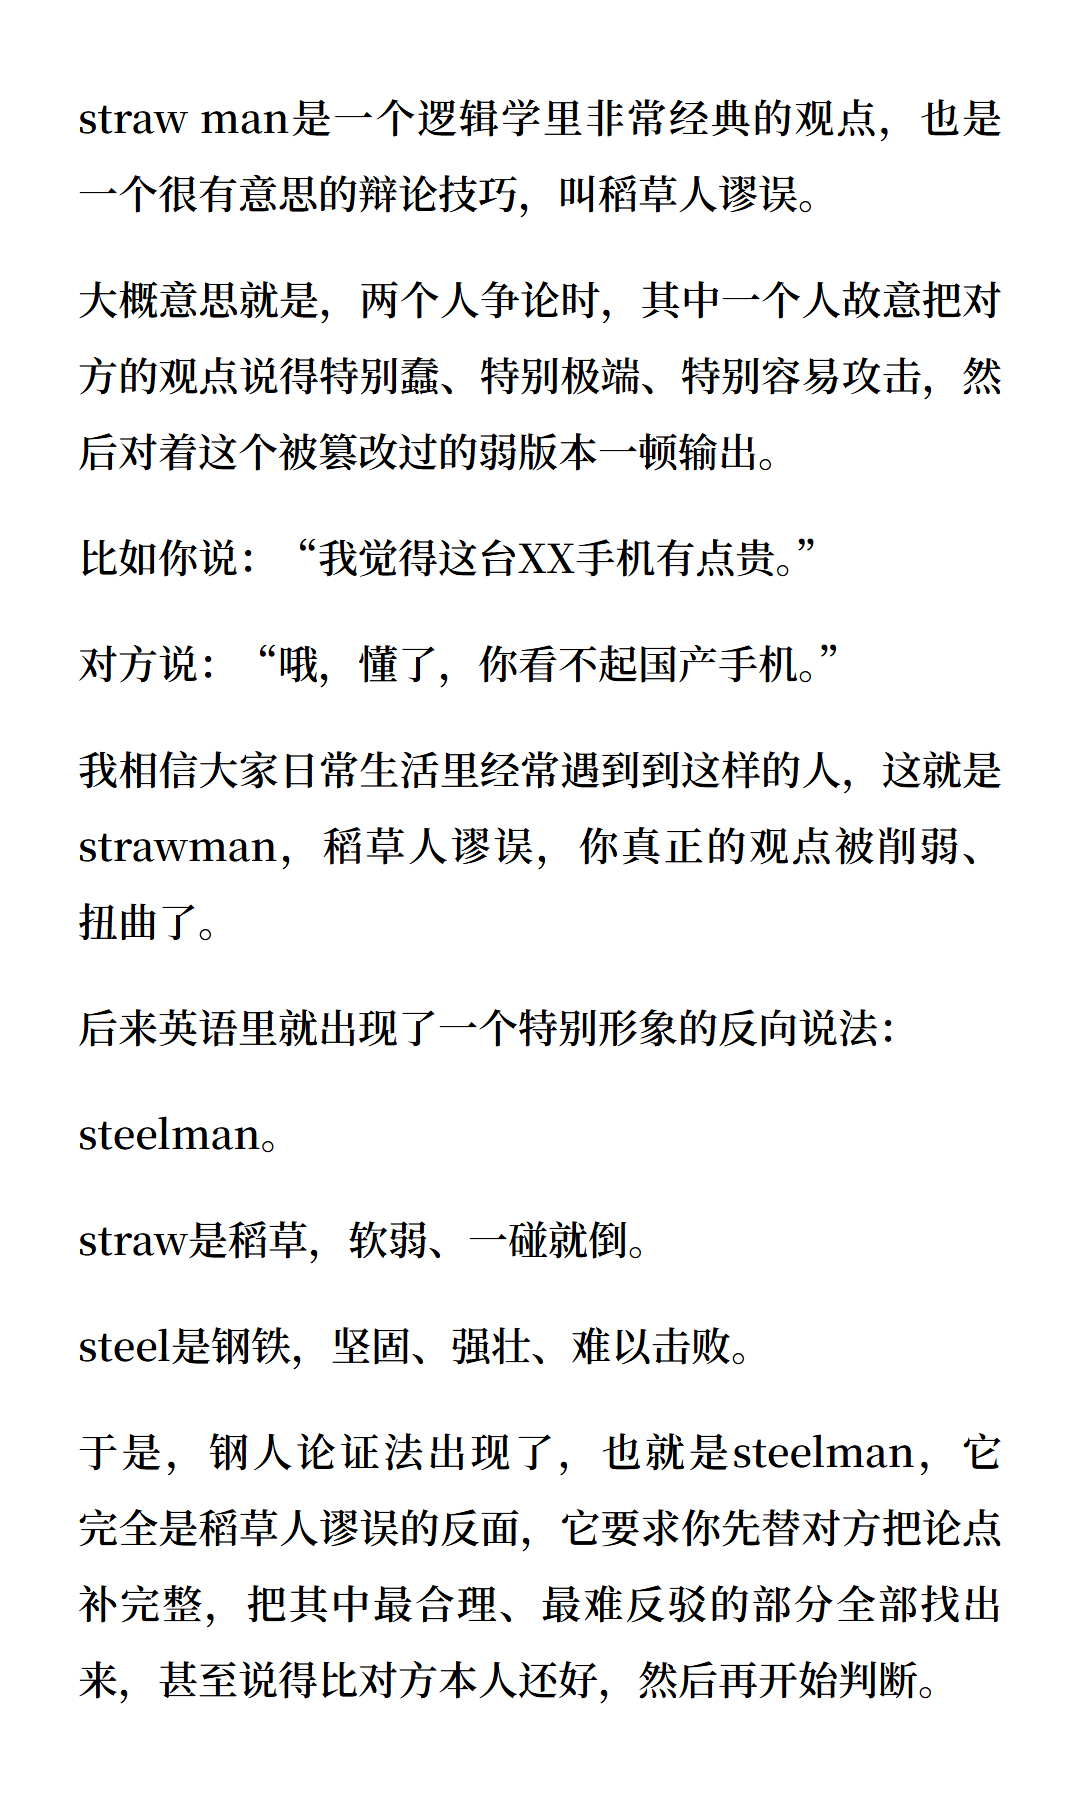
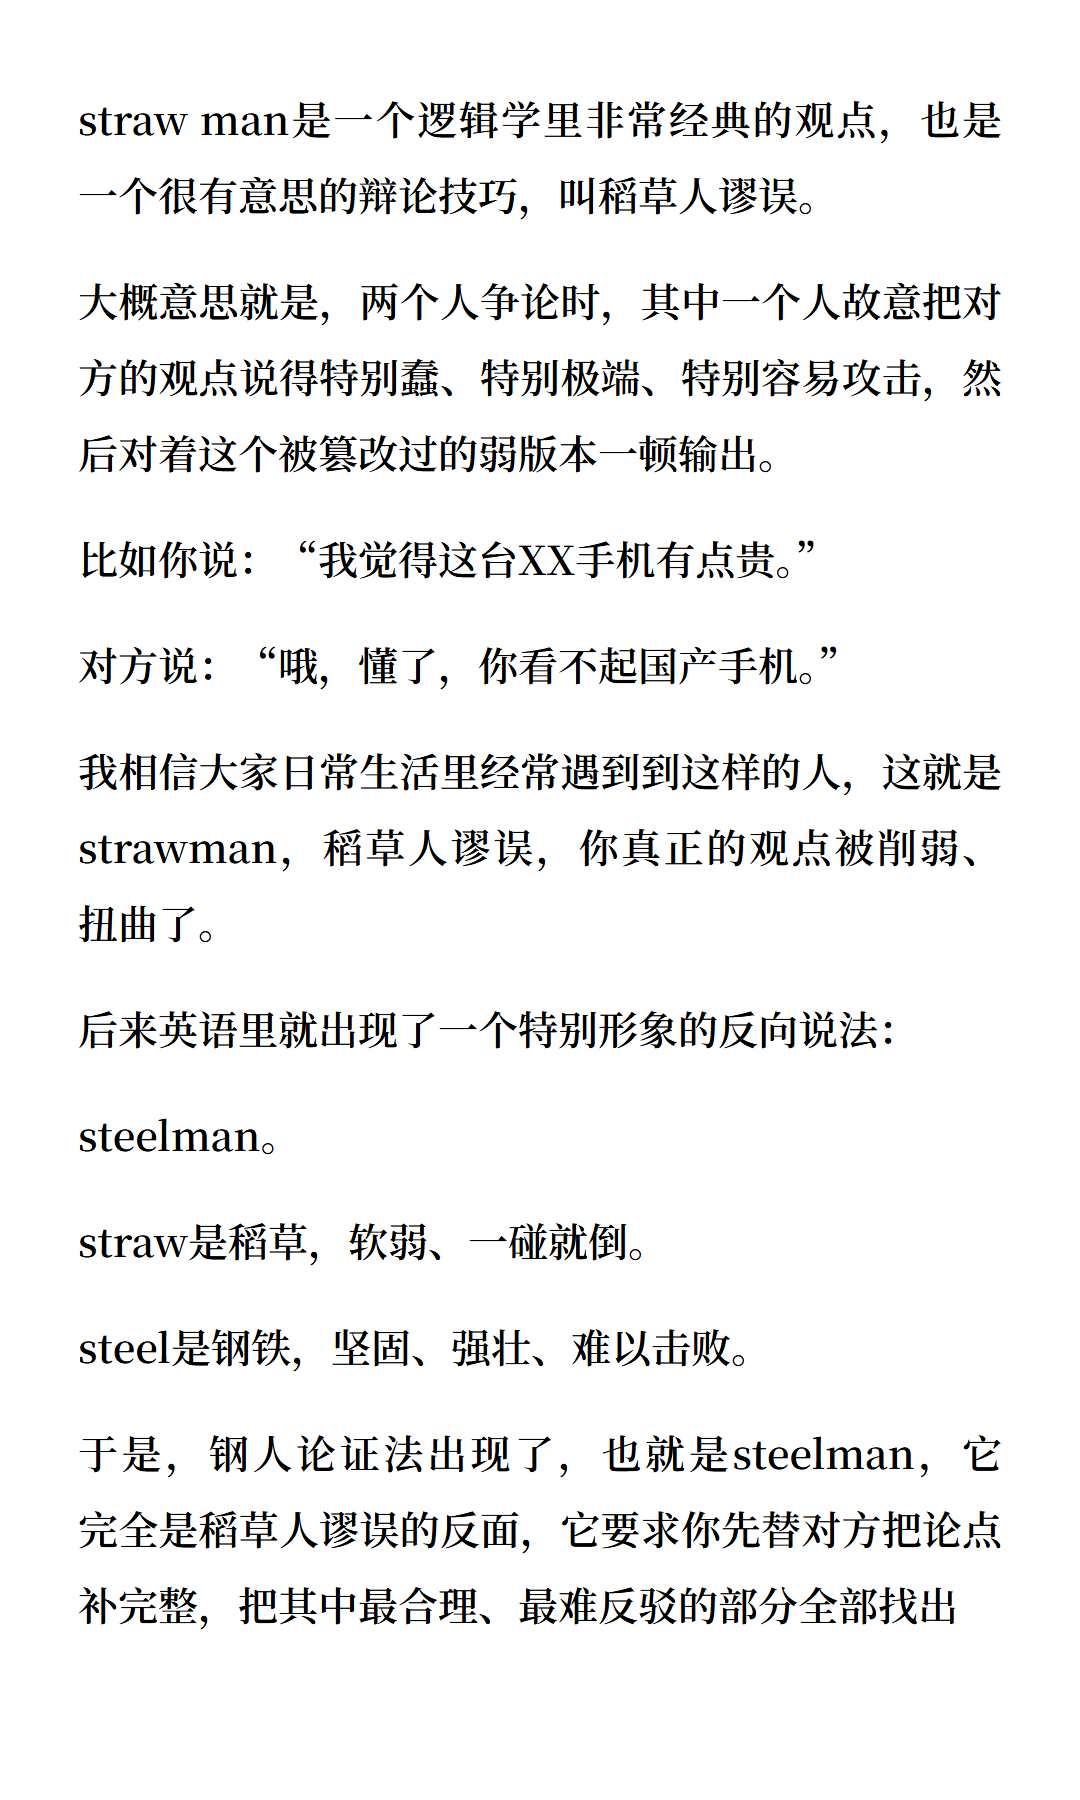
同文对照页改用生产留白（80/120），装不下的整行直接舍弃

diff --git a/design/preview/对照_同文.html b/design/preview/对照_同文.html
@@ -15,7 +15,7 @@ html, body { width: 1080px; height: 1800px; overflow: hidden; }
 body {
   font-family: var(--serif); background: #FFFFFF; color: var(--ink);
   display: flex; flex-direction: column;
-  padding: 78px 78px 67px;
+  padding: 80px 78px 120px;
 }
 main { flex: 1; }
 .hln { font-size: 50px; line-height: 80px; font-weight: 800; letter-spacing: 0.0em; }
@@ -59,8 +59,7 @@ main { flex: 1; }
 <div style="height:30px"></div>
 <div class="pln">于是，钢人论证法出现了，也就是steelman，它</div>
 <div class="pln">完全是稻草人谬误的反面，它要求你先替对方把论点</div>
-<div class="pln">补完整，把其中最合理、最难反驳的部分全部找出</div>
-<div class="pln last">来，甚至说得比对方本人还好，然后再开始判断。</div>
+<div class="pln last">补完整，把其中最合理、最难反驳的部分全部找出</div>
 </main>
 
 </body>

diff --git a/design/render_same_text.py b/design/render_same_text.py
@@ -33,11 +33,10 @@ PARAGRAPHS = [
 
 
 def main() -> None:
-    L = m.Layout(1080, 1800)  # 行距/段距/留白/字重走 Layout 定稿值
+    L = m.Layout(1080, 1800)  # 生产参数：上 80 / 下 120，行距 76 / 段距 30
     L.track = 0.0         # 参考图实测字距为 0（其空气感来自字形本身）
-    L.f_body = 40         # 参考图实测字号 ≈ 41.5，40px 每行可容 23 字
+    L.f_body = 40         # 参考图实测字号 ≈ 41.5
     L.line_cap = 23.0
-    L.pad_top, L.pad_bottom = 78, 82  # 对照页微调 2-3px 使单页恰好容纳（生产用 80/85）
 
     units = []
     for j, p in enumerate(PARAGRAPHS):
@@ -45,11 +44,21 @@ def main() -> None:
             units.append({"kind": "gap", "h": L.para_gap})
         units.append({"kind": "p", "lines": m.wrap(p, L.line_cap)})
 
-    total_h = sum(
-        len(u["lines"]) * L.lh_body if u["kind"] == "p" else u["h"] for u in units
-    )
-    print(f"排版高度 {total_h}px / 版心 {L.content_h}px（{'单页可容' if total_h <= L.content_h else '超出一页'}），"
-          f"共 {sum(len(u['lines']) for u in units if u['kind'] == 'p')} 行")
+    # 装不下就舍弃多余的整行（不做半行裁切）
+    def total_h(us):
+        return sum(len(u["lines"]) * L.lh_body if u["kind"] == "p" else u["h"] for u in us)
+
+    dropped = 0
+    while units and total_h(units) > L.content_h:
+        last = units[-1]
+        if last["kind"] != "p" or len(last["lines"]) <= 1:
+            units.pop()
+            if units and units[-1]["kind"] == "gap":
+                units.pop()
+            continue
+        last["lines"].pop()
+        dropped += 1
+    print(f"版心 {L.content_h}px，排版 {total_h(units)}px，舍弃 {dropped} 行")
 
     html = m.page_html(L, m.flow_page_html(L, units).split("<body>")[1].split("</body>")[0])
     html_path = OUT.with_suffix(".html")
